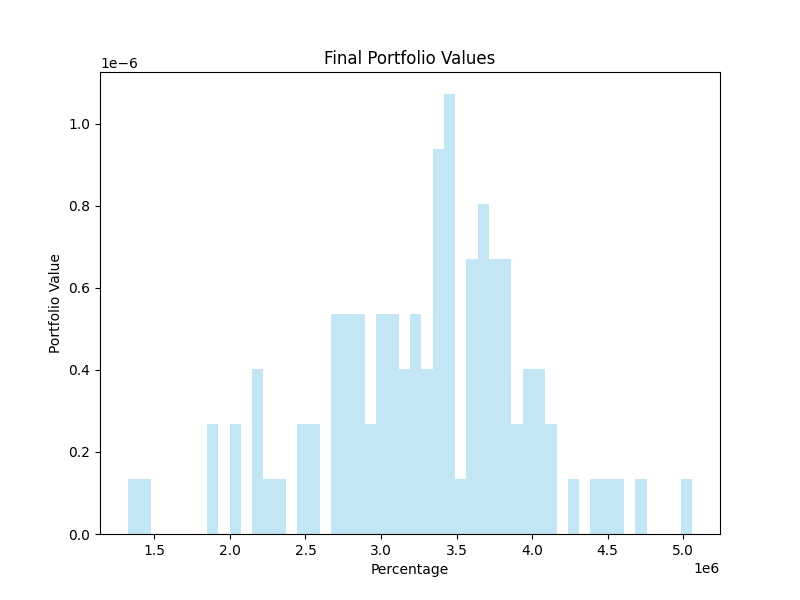
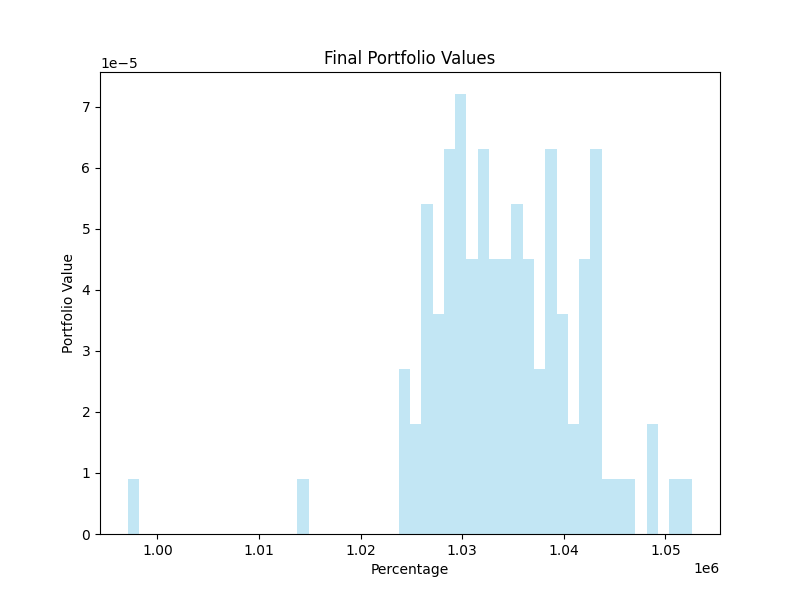
add use_influence_only flag

diff --git a/Code/simulation.py b/Code/simulation.py
@@ -20,12 +20,14 @@ from stock import Stock
 N = 100  # number of brokers
 neighbor_influence = 0.03  # initial percent of risk assessment provided by each neighbor
 adjust_influence = True
+use_influence_only = True
 seed_money = 1_000_000
+stop_at_stable = False
 trials = 1  # not really using this since just doing a single run currently since its such a long runtime
 start = "01/01/2003"  # date to start simulation
 end = "12/31/2012"  # date to stop simulation
 input_data_filename = 'data/ticker_info_400_all_catagories.csv'
-figure_file_directory = 'figures2003-2012_updated2'
+figure_file_directory = 'figures'
 # -------------------------------------------------------------------------------------------------------------------- #
 
 
@@ -96,9 +98,10 @@ for trial in range(trials):
     money_series = defaultdict(lambda: list())
 
     # list of brokers with increasing preferred levels of risk
-    brokers = [Broker(i, seed_money, (i+1)/N*9999, neighbor_influence, adjust_influence, stop_at_stable=False) for i in range(N)]
+    brokers = [Broker(i, seed_money, (i+1)/N*9999, neighbor_influence, adjust_influence, stop_at_stable=stop_at_stable) for i in range(N)]
     # version with limited risk types to focus on influence
-    # brokers = [Broker(i, seed_money, random.sample([3333,6666,9999],1)[0], neighbor_influence, adjust_influence, stop_at_stable=False) for i in range(N)]
+    if use_influence_only:
+        brokers = [Broker(i, seed_money, random.sample([500,5000,9999],1)[0], neighbor_influence, adjust_influence, stop_at_stable=stop_at_stable) for i in range(N)]
 
     # @INFLUENCE THIS BLOCK ADDRESSES THE NEIGHBOR WEIGHTING AND SETUP
     # Generate the number of friends per person with power distribution and populate those friend relationships
@@ -237,30 +240,73 @@ for trial in range(trials):
     #     plot_times(dates, [broker_statuses[b.id]], [f'broker {b.id}'], 'dates', f'portfolio and currency value of broker {b.id}', f'broker wealth time series {b.id}', f'timeseries{b.id}.png')
     #     plot_times(dates, [broker_risks[b.id]], [f'broker {b.id}'], 'dates', f'risk of broker {b.id}', f'broker risk time series {b.id}', f'riskseries{b.id}.png')
 
-    random_ids = sorted(random.sample(brokers, 10), key=lambda b: b.id)
-    plot_times(dates, [broker_statuses[b.id] for b in random_ids], [f'Broker {i.id}' for i in random_ids],
-               'Dates', 'Broker wealth', 'Broker wealth (including portfolio and cash) time series', f'timeSeriesJoint.png')
-    plot_times(dates, [broker_risks[b.id] for b in random_ids], [f'Broker {i.id}' for i in random_ids],
-               'Dates', 'Broker risk', 'Broker risk time series', f'riskSeriesJoint.png')
-    plot_times(dates, [money_series[b.id] for b in random_ids], [f'Broker {i.id}' for i in random_ids],
-               'Dates', 'Broker liquid money', 'Broker liquid money time series', f'moneySeriesJoint.png')
+    if not use_influence_only:
+        random_ids = sorted(random.sample(brokers, 10), key=lambda b: b.id)
+        plot_times(dates, [broker_statuses[b.id] for b in random_ids], [f'Broker {i.id}' for i in random_ids],
+                   'Dates', 'Broker wealth', 'Broker wealth (including portfolio and cash) time series', f'timeSeriesJoint.png')
+        plot_times(dates, [broker_risks[b.id] for b in random_ids], [f'Broker {i.id}' for i in random_ids],
+                   'Dates', 'Broker risk', 'Broker risk time series', f'riskSeriesJoint.png')
+        plot_times(dates, [money_series[b.id] for b in random_ids], [f'Broker {i.id}' for i in random_ids],
+                   'Dates', 'Broker liquid money', 'Broker liquid money time series', f'moneySeriesJoint.png')
 
-    random_ids = sorted(random.sample(brokers, 10), key=lambda b: b.id)
-    plot_times(dates, [broker_statuses[b.id] for b in random_ids], [f'Broker {i.id}' for i in random_ids],
-               'Dates', 'Broker wealth', 'Broker wealth (including portfolio and cash) time series', f'timeSeriesJoint2.png')
-    plot_times(dates, [broker_risks[b.id] for b in random_ids], [f'Broker {i.id}' for i in random_ids],
-               'Dates', 'Broker risk', 'Broker risk time series', f'riskSeriesJoint2.png')
-    plot_times(dates, [money_series[b.id] for b in random_ids], [f'Broker {i.id}' for i in random_ids],
-               'Dates', 'Broker liquid money', 'Broker liquid money time series', f'moneySeriesJoint2.png')
+        random_ids = sorted(random.sample(brokers, 10), key=lambda b: b.id)
+        plot_times(dates, [broker_statuses[b.id] for b in random_ids], [f'Broker {i.id}' for i in random_ids],
+                   'Dates', 'Broker wealth', 'Broker wealth (including portfolio and cash) time series', f'timeSeriesJoint2.png')
+        plot_times(dates, [broker_risks[b.id] for b in random_ids], [f'Broker {i.id}' for i in random_ids],
+                   'Dates', 'Broker risk', 'Broker risk time series', f'riskSeriesJoint2.png')
+        plot_times(dates, [money_series[b.id] for b in random_ids], [f'Broker {i.id}' for i in random_ids],
+                   'Dates', 'Broker liquid money', 'Broker liquid money time series', f'moneySeriesJoint2.png')
 
-    random_ids = sorted(random.sample(brokers, 10), key=lambda b: b.id)
-    plot_times(dates, [broker_statuses[b.id] for b in random_ids], [f'Broker {i.id}' for i in random_ids],
-               'Dates', 'Broker wealth', 'Broker wealth (including portfolio and cash) time series', f'timeSeriesJoint3.png')
-    plot_times(dates, [broker_risks[b.id] for b in random_ids], [f'Broker {i.id}' for i in random_ids],
-               'Dates', 'Broker risk', 'Broker risk time series', f'riskSeriesJoint3.png')
-    plot_times(dates, [money_series[b.id] for b in random_ids], [f'Broker {i.id}' for i in random_ids],
-               'Dates', 'Broker liquid money', 'Broker liquid money time series', f'moneySeriesJoint3.png')
+        random_ids = sorted(random.sample(brokers, 10), key=lambda b: b.id)
+        plot_times(dates, [broker_statuses[b.id] for b in random_ids], [f'Broker {i.id}' for i in random_ids],
+                   'Dates', 'Broker wealth', 'Broker wealth (including portfolio and cash) time series', f'timeSeriesJoint3.png')
+        plot_times(dates, [broker_risks[b.id] for b in random_ids], [f'Broker {i.id}' for i in random_ids],
+                   'Dates', 'Broker risk', 'Broker risk time series', f'riskSeriesJoint3.png')
+        plot_times(dates, [money_series[b.id] for b in random_ids], [f'Broker {i.id}' for i in random_ids],
+                   'Dates', 'Broker liquid money', 'Broker liquid money time series', f'moneySeriesJoint3.png')
 
+    else:
+        random_ids = list()
+        while len(random_ids) < 10:
+            sampled_broker = random.sample(brokers, 1)[0]
+            if sampled_broker.preferred_risk_minimum == 500:
+                random_ids.append(sampled_broker.id)
+        random_ids = sorted(random_ids)
+        plot_times(dates, [broker_statuses[b] for b in random_ids], [f'Broker {i}' for i in random_ids],
+                   'Dates', 'Broker wealth', 'Broker wealth (including portfolio and cash) time series with low risk',
+                   f'timeSeriesJoint2_setRiskLow.png')
+        plot_times(dates, [broker_risks[b] for b in random_ids], [f'Broker {i}' for i in random_ids],
+                   'Dates', 'Broker risk', 'Broker risk time series with low risk', f'riskSeriesJoint2_setRiskLow.png')
+        plot_times(dates, [money_series[b] for b in random_ids], [f'Broker {i}' for i in random_ids],
+                   'Dates', 'Broker liquid money', 'Broker liquid money time series with low risk', f'moneySeriesJoint2_setRiskLow.png')
+
+        random_ids = list()
+        while len(random_ids) < 10:
+            sampled_broker = random.sample(brokers, 1)[0]
+            if sampled_broker.preferred_risk_minimum == 5000:
+                random_ids.append(sampled_broker.id)
+        random_ids = sorted(random_ids)
+        plot_times(dates, [broker_statuses[b] for b in random_ids], [f'Broker {i}' for i in random_ids],
+                   'Dates', 'Broker wealth', 'Broker wealth (including portfolio and cash) time series with medium risk',
+                   f'timeSeriesJoint2_setRiskMed.png')
+        plot_times(dates, [broker_risks[b] for b in random_ids], [f'Broker {i}' for i in random_ids],
+                   'Dates', 'Broker risk', 'Broker risk time series with medium risk', f'riskSeriesJoint2_setRiskMed.png')
+        plot_times(dates, [money_series[b] for b in random_ids], [f'Broker {i}' for i in random_ids],
+                   'Dates', 'Broker liquid money', 'Broker liquid money time series with medium risk', f'moneySeriesJoint2_setRiskMed.png')
+
+        random_ids = list()
+        while len(random_ids) < 10:
+            sampled_broker = random.sample(brokers, 1)[0]
+            if sampled_broker.preferred_risk_minimum == 9999:
+                random_ids.append(sampled_broker.id)
+        random_ids = sorted(random_ids)
+        plot_times(dates, [broker_statuses[b] for b in random_ids], [f'Broker {i}' for i in random_ids],
+                   'Dates', 'Broker wealth', 'Broker wealth (including portfolio and cash) time series with high risk',
+                   f'timeSeriesJoint2_setRiskHigh.png')
+        plot_times(dates, [broker_risks[b] for b in random_ids], [f'Broker {i}' for i in random_ids],
+                   'Dates', 'Broker risk', 'Broker risk time series with high risk', f'riskSeriesJoint2_setRiskHigh.png')
+        plot_times(dates, [money_series[b] for b in random_ids], [f'Broker {i}' for i in random_ids],
+                   'Dates', 'Broker liquid money', 'Broker liquid money time series with high risk', f'moneySeriesJoint2_setRiskHigh.png')
 
     # plot portfolio risk to portfolio value
     final_portfolio_values = [broker_statuses[b.id][-1] for b in brokers]

diff --git a/Code/broker.py b/Code/broker.py
@@ -185,7 +185,7 @@ class Broker:
             for neighbor in self.in_neighbors:
                 n_change = id_to_broker_map[neighbor].get_status(stocks, date) - self._neighbor_history[neighbor]
 
-                self.in_neighbors[neighbor] += .0005 * np.sign(self_change - n_change)
+                self.in_neighbors[neighbor] += .0008 * np.sign(self_change - n_change)
                 self._neighbor_history[neighbor] = id_to_broker_map[neighbor].get_status(stocks, date)
 
             self.neighbor_weight = sum(self.in_neighbors[n] for n in self.in_neighbors)
